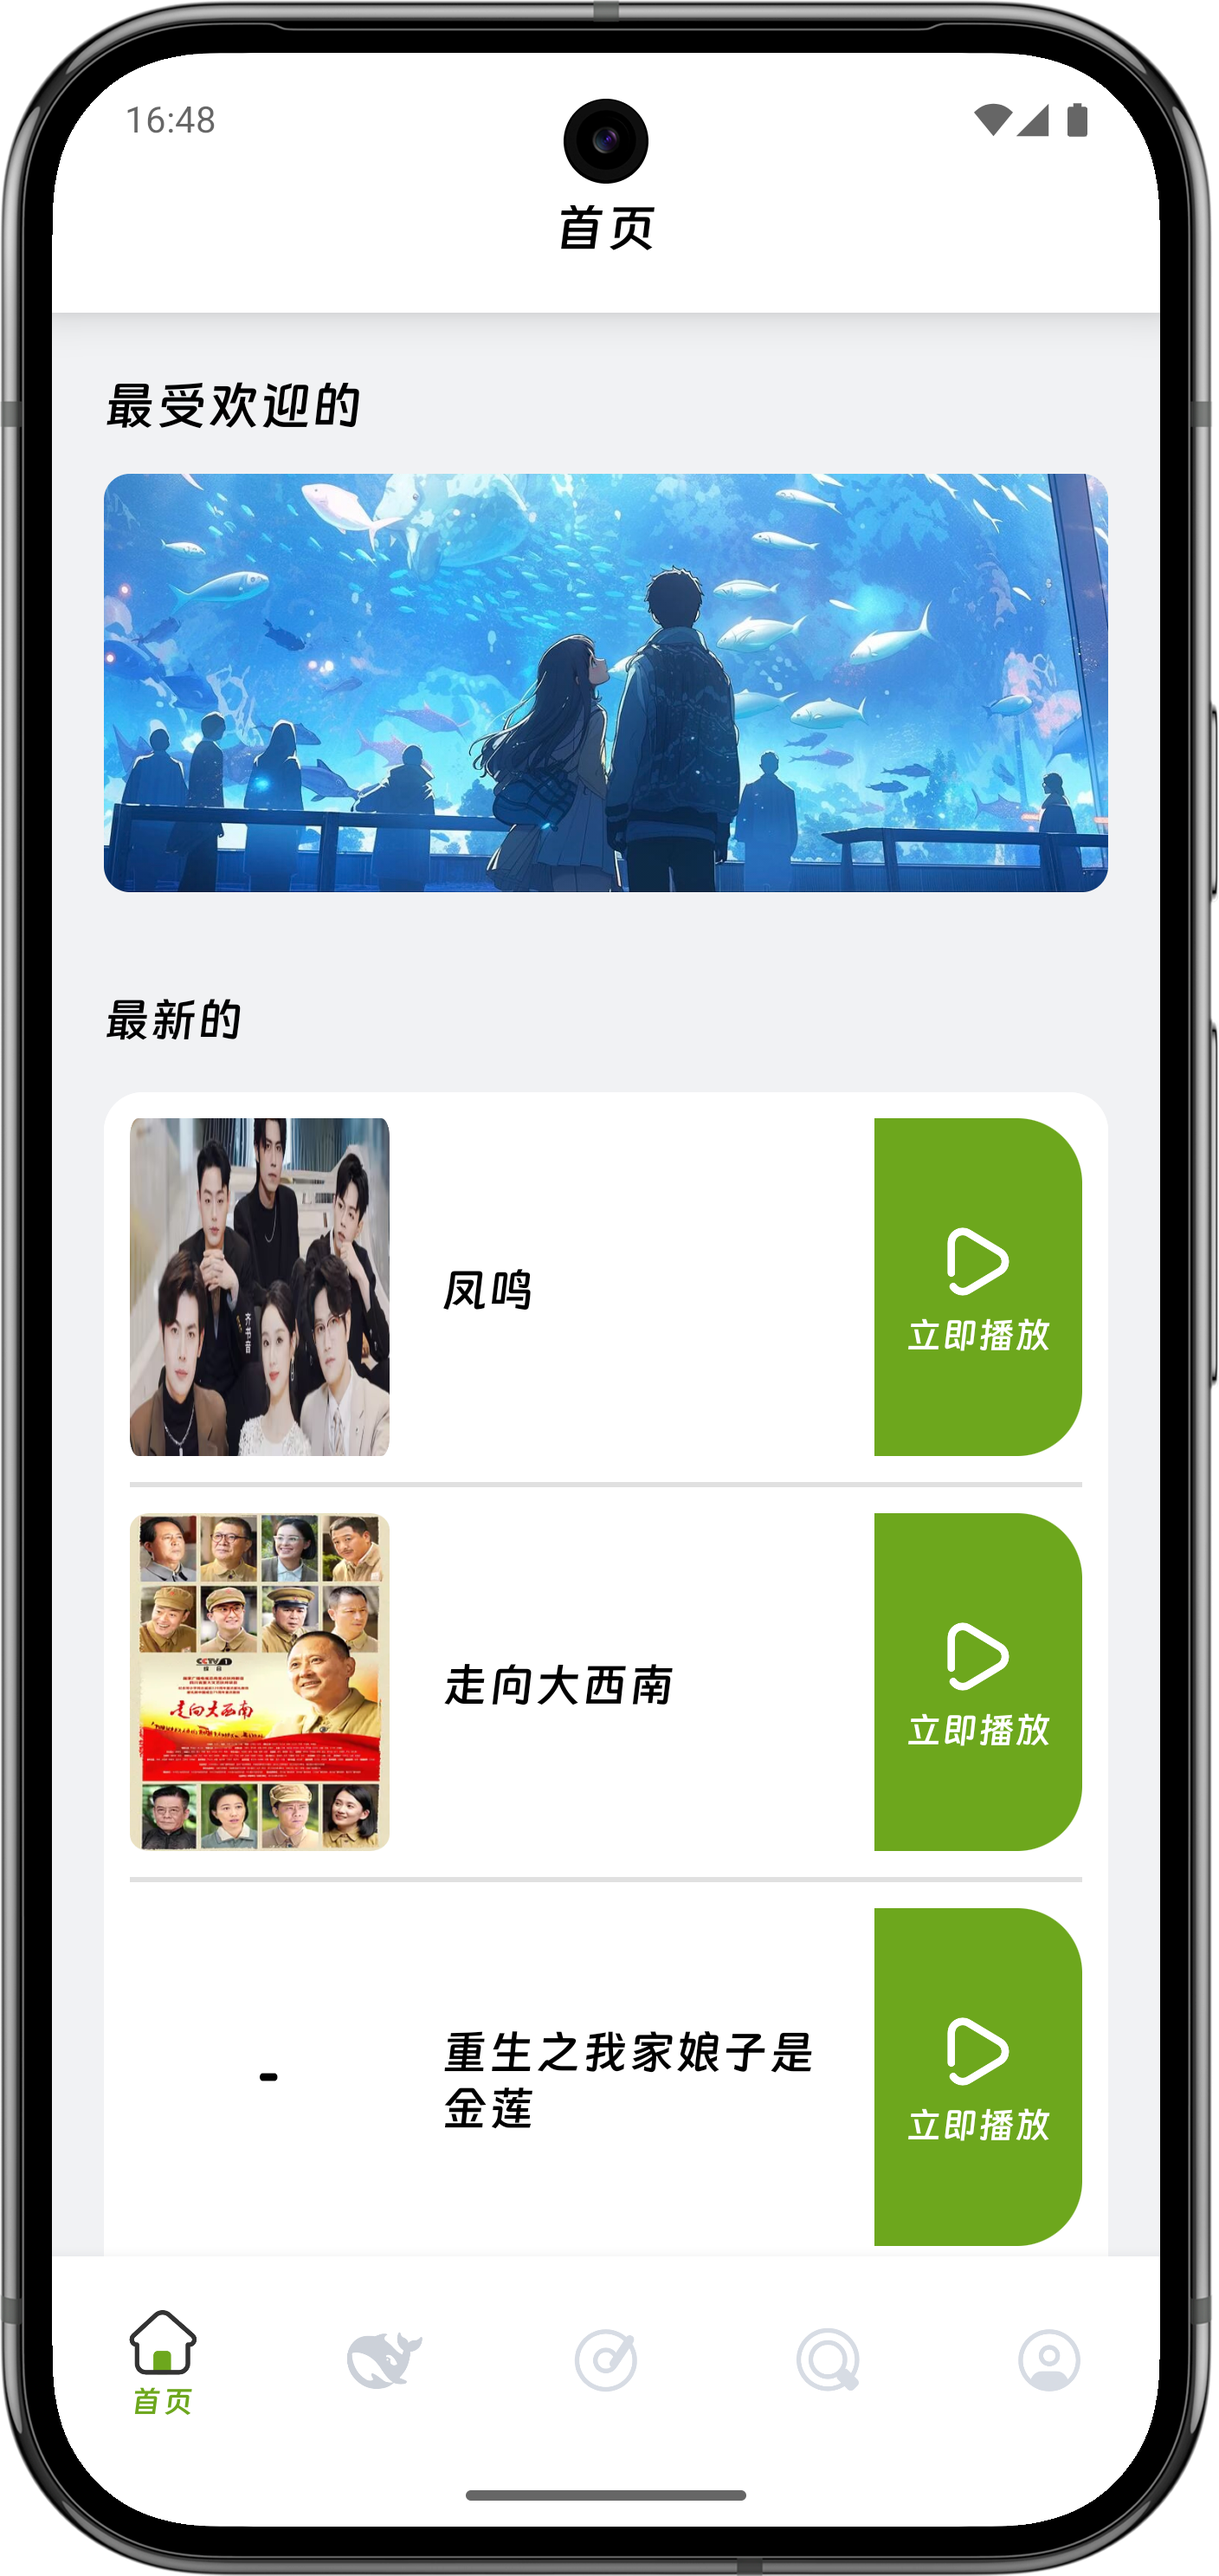
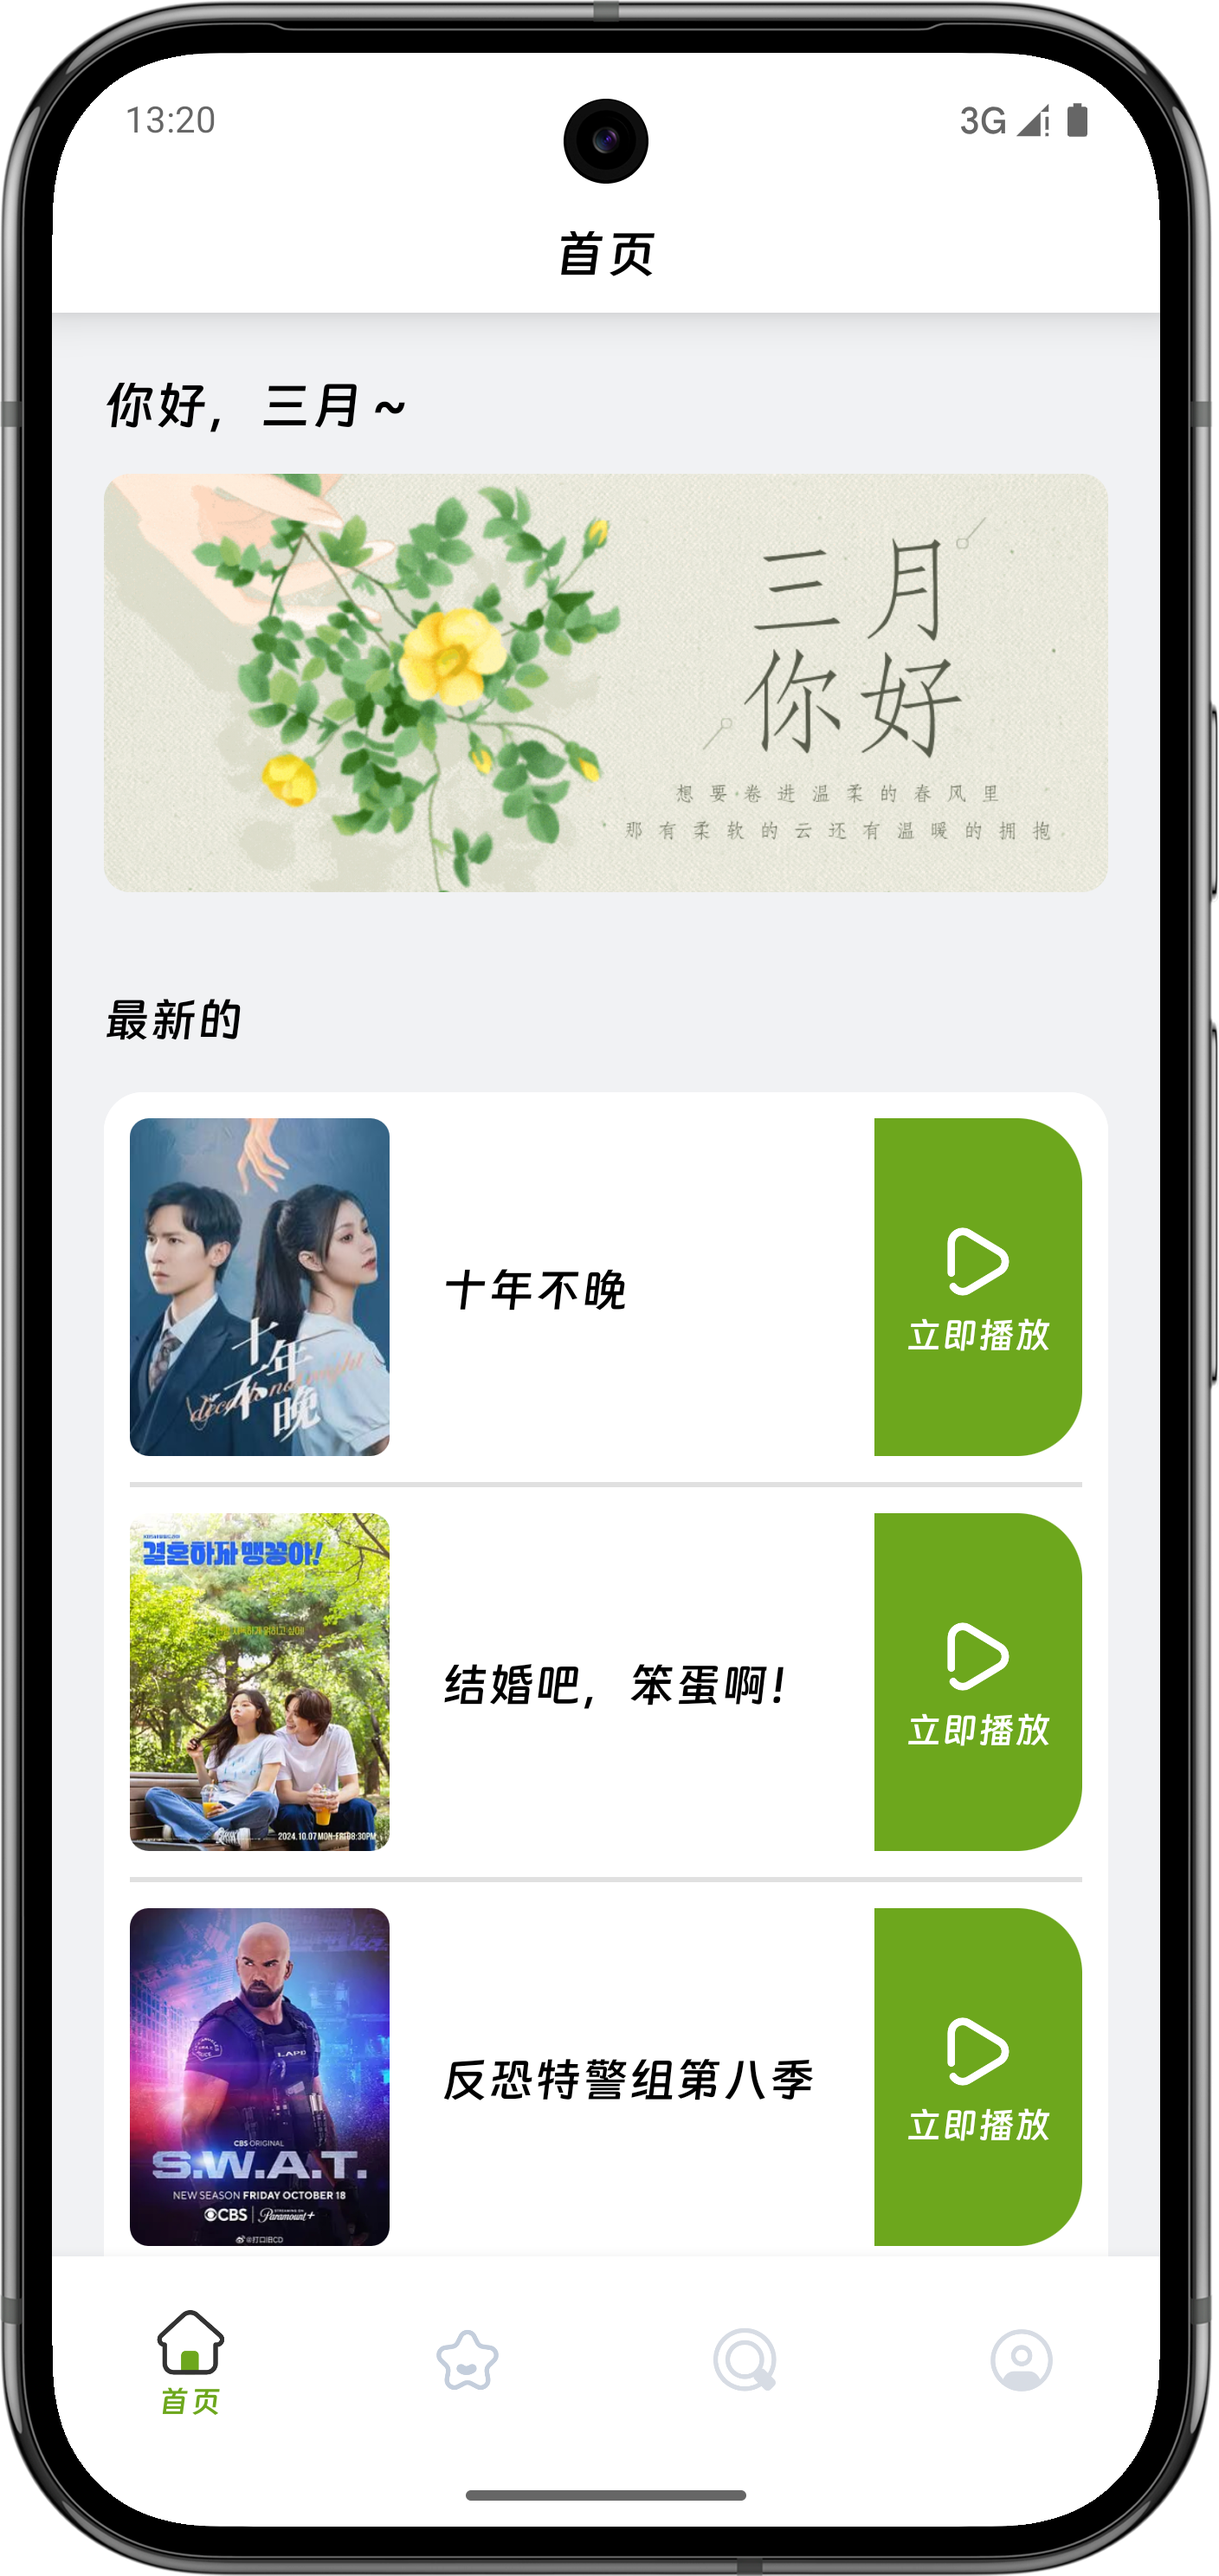
update

diff --git a/index.html b/index.html
@@ -341,12 +341,12 @@
             <div class="screenshots">
                 <img src="src/assets/1.png" alt="Screenshot 1">
                 <img src="src/assets/2.png" alt="Screenshot 2">
-                <img src="src/assets/3.png" alt="Screenshot 3">
-                <img src="src/assets/4.png" alt="Screenshot 4">
+                <img src="src/assets/4.png" alt="Screenshot 3">
+                <img src="src/assets/5.png" alt="Screenshot 4">
             </div>
             <div id="version-info" class="section">
                 <h2>版本介绍</h2>
-                <p>OneStore v3.1.7更新:</p>
+                <p>OneStore v3.1.8更新:</p>
                 <p>1.优化页面布局，更简洁</p>
                 <p>2.新增功能模块，未来更多功能将增加</p>
                 <p>3.优化了一些问题～</p>
